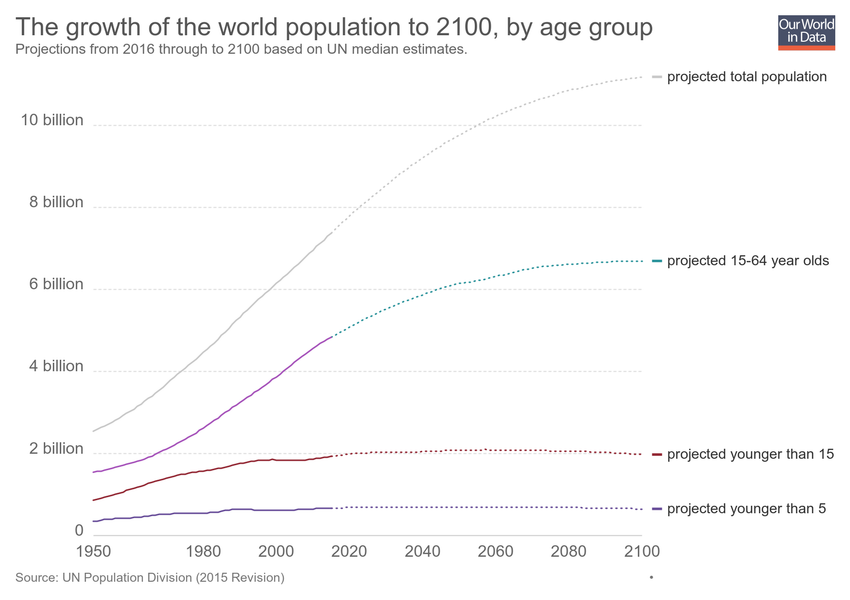
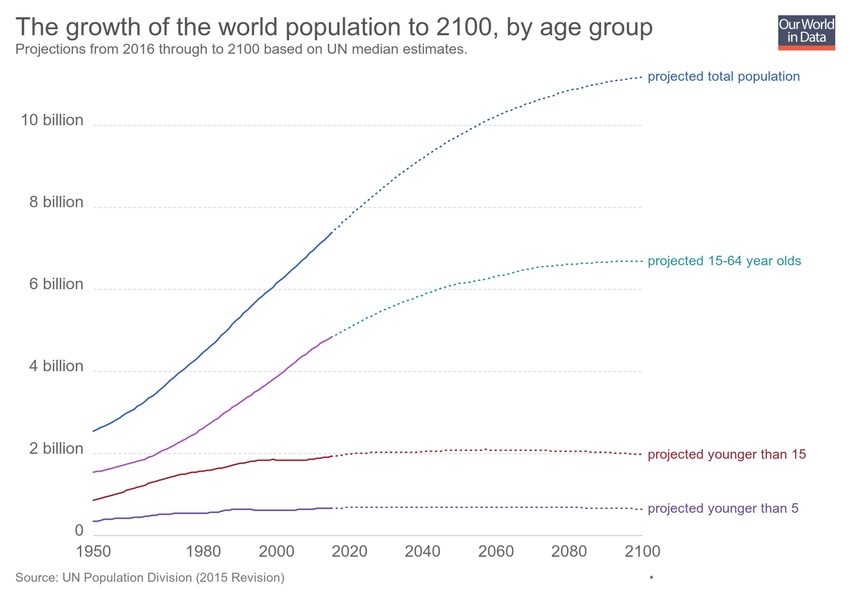
Updating chart world-population-and-projected-growth-to-2100-by-age-group-young-vs-working-age

diff --git a/grapher/world-population-and-projected-growth-to-2100-by-age-group-young-vs-working-age.html b/grapher/world-population-and-projected-growth-to-2100-by-age-group-young-vs-working-age.html
@@ -1,4 +1,4 @@
-<!doctype html><html><head><meta name="viewport" content="width=device-width, initial-scale=1" /><title>The growth of the world population to 2100, by age group - Our World in Data</title><meta name="description" content="Projections from 2016 through to 2100 based on UN median estimates." /><link rel="canonical" href="https://ourworldindata.org/grapher/world-population-and-projected-growth-to-2100-by-age-group-young-vs-working-age" /><meta property="fb:app_id" content="1149943818390250" /><meta property="og:url" content="https://ourworldindata.org/grapher/world-population-and-projected-growth-to-2100-by-age-group-young-vs-working-age" /><meta property="og:title" content="The growth of the world population to 2100, by age group" /><meta property="og:description" content="Projections from 2016 through to 2100 based on UN median estimates." /><meta property="og:image" content="https://ourworldindata.org/grapher/exports/world-population-and-projected-growth-to-2100-by-age-group-young-vs-working-age.png?v=1" /><meta property="og:image:width" content="850" /><meta property="og:image:height" content="600" /><meta property="og:site_name" content="Our World in Data" /><meta name="twitter:card" content="summary_large_image" /><meta name="twitter:site" content="@OurWorldInData" /><meta name="twitter:creator" content="@OurWorldInData" /><meta name="twitter:title" content="The growth of the world population to 2100, by age group" /><meta name="twitter:description" content="Projections from 2016 through to 2100 based on UN median estimates." /><meta name="twitter:image" content="https://ourworldindata.org/grapher/exports/world-population-and-projected-growth-to-2100-by-age-group-young-vs-working-age.png?v=1" /><style>
+<!doctype html><html><head><meta name="viewport" content="width=device-width, initial-scale=1" /><title>The growth of the world population to 2100, by age group - Our World in Data</title><meta name="description" content="Projections from 2016 through to 2100 based on UN median estimates." /><link rel="canonical" href="https://ourworldindata.org/grapher/world-population-and-projected-growth-to-2100-by-age-group-young-vs-working-age" /><meta property="fb:app_id" content="1149943818390250" /><meta property="og:url" content="https://ourworldindata.org/grapher/world-population-and-projected-growth-to-2100-by-age-group-young-vs-working-age" /><meta property="og:title" content="The growth of the world population to 2100, by age group" /><meta property="og:description" content="Projections from 2016 through to 2100 based on UN median estimates." /><meta property="og:image" content="https://ourworldindata.org/grapher/exports/world-population-and-projected-growth-to-2100-by-age-group-young-vs-working-age.png?v=2" /><meta property="og:image:width" content="850" /><meta property="og:image:height" content="600" /><meta property="og:site_name" content="Our World in Data" /><meta name="twitter:card" content="summary_large_image" /><meta name="twitter:site" content="@OurWorldInData" /><meta name="twitter:creator" content="@OurWorldInData" /><meta name="twitter:title" content="The growth of the world population to 2100, by age group" /><meta name="twitter:description" content="Projections from 2016 through to 2100 based on UN median estimates." /><meta name="twitter:image" content="https://ourworldindata.org/grapher/exports/world-population-and-projected-growth-to-2100-by-age-group-young-vs-working-age.png?v=2" /><style>
         html, body {
             height: 100%;
             margin: 0;
@@ -20,8 +20,8 @@
         }
     </style><noscript><style>
                     figure { display: none !important; }
-                </style></noscript><link rel="stylesheet" href="https://ourworldindata.org/grapher/assets/commons.bundle.dcbbe53805c487d5e57617b10ac73a8a.css" /><link rel="preload" href="/grapher/data/variables/8523+8466+8411+8468+8412+8469+8502+8445.json?v=1" as="fetch" crossorigin /></head><body class="singleChart"><figure data-grapher-src="/grapher/world-population-and-projected-growth-to-2100-by-age-group-young-vs-working-age"></figure><noscript id="fallback"><img src="/grapher/exports/world-population-and-projected-growth-to-2100-by-age-group-young-vs-working-age.svg" /><p>Interactive visualization requires JavaScript</p></noscript><script src="https://cdn.polyfill.io/v2/polyfill.min.js?features=es6,fetch"></script><script src="https://ourworldindata.org/grapher/assets/commons.bundle.da523acc49807a06a11f.js"></script><script src="https://ourworldindata.org/grapher/assets/charts.bundle.da523acc49807a06a11f.js"></script><script>
-        var jsonConfig = {"id":1688,"map":{"projection":"World","targetYear":1980,"variableId":2020,"timeTolerance":1,"legendStepSize":20,"baseColorScheme":"BuGn","colorSchemeInvert":false,"colorSchemeLabels":[],"colorSchemeValues":[],"defaultProjection":"World","legendDescription":"","customColorsActive":false,"customNumericColors":[],"customCategoryColors":{},"customCategoryLabels":{},"customHiddenCategories":{}},"tab":"chart","note":"","slug":"world-population-and-projected-growth-to-2100-by-age-group-young-vs-working-age","type":"LineChart","title":"The growth of the world population to 2100, by age group","xAxis":{"scaleType":"linear"},"yAxis":{"min":0,"scaleType":"linear","labelDistance":-1},"version":1,"subtitle":"Projections from 2016 through to 2100 based on UN median estimates.","hasMapTab":false,"originUrl":"","stackMode":null,"dimensions":[{"id":11442,"order":0,"chartId":1688,"display":{"name":"projected total population","unit":" ","tolerance":5,"isProjection":true,"conversionFactor":1000},"property":"y","targetYear":null,"variableId":8523},{"id":11443,"order":1,"chartId":1688,"display":{"name":"total population","unit":" ","tolerance":5,"isProjection":false,"conversionFactor":1000},"property":"y","targetYear":null,"variableId":8466},{"id":11444,"order":2,"chartId":1688,"display":{"name":"younger than 5","unit":" ","tolerance":5,"isProjection":false,"conversionFactor":1000},"property":"y","targetYear":null,"variableId":8411},{"id":11445,"order":3,"chartId":1688,"display":{"name":"projected younger than 5","unit":" ","tolerance":5,"isProjection":true,"conversionFactor":1000},"property":"y","targetYear":null,"variableId":8468},{"id":11446,"order":4,"chartId":1688,"display":{"name":"younger than 15","unit":" ","tolerance":5,"isProjection":false,"conversionFactor":1000},"property":"y","targetYear":null,"variableId":8412},{"id":11447,"order":5,"chartId":1688,"display":{"name":"projected younger than 15","unit":" ","tolerance":5,"isProjection":true,"conversionFactor":1000},"property":"y","targetYear":null,"variableId":8469},{"id":11448,"order":6,"chartId":1688,"display":{"name":"projected 15-64 year olds","isProjection":true},"property":"y","targetYear":null,"variableId":8502},{"id":11449,"order":7,"chartId":1688,"display":{},"property":"y","targetYear":null,"variableId":8445}],"hideLegend":false,"sourceDesc":"UN Population Division (2015 Revision)","hasChartTab":true,"isPublished":true,"selectedData":[{"color":"#c8c8c8","index":0,"entityId":355},{"color":"#c8c8c8","index":1,"entityId":355},{"color":"#674c98","index":2,"entityId":355},{"color":"#674c98","index":3,"entityId":355},{"color":"#932834","index":4,"entityId":355},{"color":"#932834","index":5,"entityId":355},{"index":6,"entityId":355},{"index":7,"entityId":355}],"internalNotes":"","addCountryMode":"change-country","hideRelativeToggle":false,"hideTitleAnnotation":true};
+                </style></noscript><link rel="stylesheet" href="https://ourworldindata.org/grapher/assets/commons.bundle.dcbbe53805c487d5e57617b10ac73a8a.css" /><link rel="preload" href="/grapher/data/variables/8523+8466+8411+8468+8412+8469+8502+8445.json?v=2" as="fetch" crossorigin /></head><body class="singleChart"><figure data-grapher-src="/grapher/world-population-and-projected-growth-to-2100-by-age-group-young-vs-working-age"></figure><noscript id="fallback"><img src="/grapher/exports/world-population-and-projected-growth-to-2100-by-age-group-young-vs-working-age.svg" /><p>Interactive visualization requires JavaScript</p></noscript><script src="https://cdn.polyfill.io/v2/polyfill.min.js?features=es6,fetch"></script><script src="https://ourworldindata.org/grapher/assets/commons.bundle.da523acc49807a06a11f.js"></script><script src="https://ourworldindata.org/grapher/assets/charts.bundle.da523acc49807a06a11f.js"></script><script>
+        var jsonConfig = {"id":1688,"map":{"projection":"World","targetYear":1980,"variableId":2020,"timeTolerance":1,"baseColorScheme":"BuGn","colorSchemeInvert":false,"colorSchemeLabels":[],"colorSchemeValues":[],"legendDescription":"","customColorsActive":false,"customNumericColors":[],"customCategoryColors":{},"customCategoryLabels":{},"customHiddenCategories":{}},"tab":"chart","note":"","slug":"world-population-and-projected-growth-to-2100-by-age-group-young-vs-working-age","type":"LineChart","title":"The growth of the world population to 2100, by age group","xAxis":{"scaleType":"linear"},"yAxis":{"min":0,"scaleType":"linear","labelDistance":-1},"version":2,"subtitle":"Projections from 2016 through to 2100 based on UN median estimates.","hasMapTab":false,"originUrl":"","stackMode":null,"dimensions":[{"display":{"name":"projected total population","unit":" ","tolerance":5,"isProjection":true,"conversionFactor":1000},"property":"y","variableId":8523},{"display":{"name":"total population","unit":" ","tolerance":5,"isProjection":false,"conversionFactor":1000},"property":"y","variableId":8466},{"display":{"name":"younger than 5","unit":" ","tolerance":5,"isProjection":false,"conversionFactor":1000},"property":"y","variableId":8411},{"display":{"name":"projected younger than 5","unit":" ","tolerance":5,"isProjection":true,"conversionFactor":1000},"property":"y","variableId":8468},{"display":{"name":"younger than 15","unit":" ","tolerance":5,"isProjection":false,"conversionFactor":1000},"property":"y","variableId":8412},{"display":{"name":"projected younger than 15","unit":" ","tolerance":5,"isProjection":true,"conversionFactor":1000},"property":"y","variableId":8469},{"display":{"name":"projected 15-64 year olds","isProjection":true},"property":"y","variableId":8502},{"display":{},"property":"y","variableId":8445}],"hideLegend":false,"sourceDesc":"UN Population Division (2015 Revision)","hasChartTab":true,"isPublished":true,"selectedData":[{"color":"#3360a9","index":0,"entityId":355},{"color":"#3360a9","index":1,"entityId":355},{"color":"#674c98","index":2,"entityId":355},{"color":"#674c98","index":3,"entityId":355},{"color":"#932834","index":4,"entityId":355},{"color":"#932834","index":5,"entityId":355},{"index":6,"entityId":355},{"index":7,"entityId":355}],"internalNotes":"","addCountryMode":"change-country","hideRelativeToggle":false,"hideTitleAnnotation":true};
         var figure = document.getElementsByTagName("figure")[0];
         try {
             window.App = {};

diff --git a/grapher/global-demand-for-education-world-population-and-projected-growth-to-2100-by-age-group.html b/grapher/global-demand-for-education-world-population-and-projected-growth-to-2100-by-age-group.html
@@ -1,4 +1,4 @@
-<!doctype html><html><head><meta name="viewport" content="width=device-width, initial-scale=1" /><title>The growth of the world population to 2100, by age group - Our World in Data</title><meta name="description" content="Projections from 2016 through to 2100 based on UN median estimates." /><link rel="canonical" href="https://ourworldindata.org/grapher/global-demand-for-education-world-population-and-projected-growth-to-2100-by-age-group" /><meta property="fb:app_id" content="1149943818390250" /><meta property="og:url" content="https://ourworldindata.org/grapher/global-demand-for-education-world-population-and-projected-growth-to-2100-by-age-group" /><meta property="og:title" content="The growth of the world population to 2100, by age group" /><meta property="og:description" content="Projections from 2016 through to 2100 based on UN median estimates." /><meta property="og:image" content="https://ourworldindata.org/grapher/exports/global-demand-for-education-world-population-and-projected-growth-to-2100-by-age-group.png?v=2" /><meta property="og:image:width" content="850" /><meta property="og:image:height" content="600" /><meta property="og:site_name" content="Our World in Data" /><meta name="twitter:card" content="summary_large_image" /><meta name="twitter:site" content="@OurWorldInData" /><meta name="twitter:creator" content="@OurWorldInData" /><meta name="twitter:title" content="The growth of the world population to 2100, by age group" /><meta name="twitter:description" content="Projections from 2016 through to 2100 based on UN median estimates." /><meta name="twitter:image" content="https://ourworldindata.org/grapher/exports/global-demand-for-education-world-population-and-projected-growth-to-2100-by-age-group.png?v=2" /><style>
+<!doctype html><html><head><meta name="viewport" content="width=device-width, initial-scale=1" /><title>The growth of the world population to 2100, by age group - Our World in Data</title><meta name="description" content="Projections from 2016 through to 2100 based on UN median estimates." /><link rel="canonical" href="https://ourworldindata.org/grapher/global-demand-for-education-world-population-and-projected-growth-to-2100-by-age-group" /><meta property="fb:app_id" content="1149943818390250" /><meta property="og:url" content="https://ourworldindata.org/grapher/global-demand-for-education-world-population-and-projected-growth-to-2100-by-age-group" /><meta property="og:title" content="The growth of the world population to 2100, by age group" /><meta property="og:description" content="Projections from 2016 through to 2100 based on UN median estimates." /><meta property="og:image" content="https://ourworldindata.org/grapher/exports/global-demand-for-education-world-population-and-projected-growth-to-2100-by-age-group.png?v=3" /><meta property="og:image:width" content="850" /><meta property="og:image:height" content="600" /><meta property="og:site_name" content="Our World in Data" /><meta name="twitter:card" content="summary_large_image" /><meta name="twitter:site" content="@OurWorldInData" /><meta name="twitter:creator" content="@OurWorldInData" /><meta name="twitter:title" content="The growth of the world population to 2100, by age group" /><meta name="twitter:description" content="Projections from 2016 through to 2100 based on UN median estimates." /><meta name="twitter:image" content="https://ourworldindata.org/grapher/exports/global-demand-for-education-world-population-and-projected-growth-to-2100-by-age-group.png?v=3" /><style>
         html, body {
             height: 100%;
             margin: 0;
@@ -20,8 +20,8 @@
         }
     </style><noscript><style>
                     figure { display: none !important; }
-                </style></noscript><link rel="stylesheet" href="https://ourworldindata.org/grapher/assets/commons.bundle.dcbbe53805c487d5e57617b10ac73a8a.css" /><link rel="preload" href="/grapher/data/variables/8523+8466+8411+8468+8412+8469.json?v=2" as="fetch" crossorigin /></head><body class="singleChart"><figure data-grapher-src="/grapher/global-demand-for-education-world-population-and-projected-growth-to-2100-by-age-group"></figure><noscript id="fallback"><img src="/grapher/exports/global-demand-for-education-world-population-and-projected-growth-to-2100-by-age-group.svg" /><p>Interactive visualization requires JavaScript</p></noscript><script src="https://cdn.polyfill.io/v2/polyfill.min.js?features=es6,fetch"></script><script src="https://ourworldindata.org/grapher/assets/commons.bundle.da523acc49807a06a11f.js"></script><script src="https://ourworldindata.org/grapher/assets/charts.bundle.da523acc49807a06a11f.js"></script><script>
-        var jsonConfig = {"id":1085,"map":{"projection":"World","targetYear":1980,"variableId":2020,"timeTolerance":1,"baseColorScheme":"BuGn","colorSchemeInvert":false,"colorSchemeLabels":[],"colorSchemeValues":[],"defaultProjection":"World","legendDescription":"","customColorsActive":false,"colorSchemeMinValue":0,"customNumericColors":[],"customCategoryColors":{},"customCategoryLabels":{},"customHiddenCategories":{}},"tab":"chart","note":"","slug":"global-demand-for-education-world-population-and-projected-growth-to-2100-by-age-group","type":"LineChart","title":"The growth of the world population to 2100, by age group","xAxis":{"scaleType":"linear"},"yAxis":{"min":0,"scaleType":"linear","labelDistance":-1},"version":2,"subtitle":"Projections from 2016 through to 2100 based on UN median estimates.","hasMapTab":false,"originUrl":"https://ourworldindata.org/world-population-future-eductation-now/","stackMode":null,"dimensions":[{"display":{"name":"projected total population","unit":" ","tolerance":5,"isProjection":true,"conversionFactor":1000},"property":"y","variableId":8523},{"display":{"name":"total population","unit":" ","tolerance":5,"isProjection":false,"conversionFactor":1000},"property":"y","variableId":8466},{"display":{"name":"younger than 5","unit":" ","tolerance":5,"isProjection":false,"conversionFactor":1000},"property":"y","variableId":8411},{"display":{"name":"projected younger than 5","unit":" ","tolerance":5,"isProjection":true,"conversionFactor":1000},"property":"y","variableId":8468},{"display":{"name":"younger than 15","unit":" ","tolerance":5,"isProjection":false,"conversionFactor":1000},"property":"y","variableId":8412},{"display":{"name":"projected younger than 15","unit":" ","tolerance":5,"isProjection":true,"conversionFactor":1000},"property":"y","variableId":8469}],"hideLegend":false,"sourceDesc":"UN Population Division (2015 Revision)","hasChartTab":true,"isPublished":true,"selectedData":[{"color":"#c8c8c8","index":0,"entityId":355},{"color":"#c8c8c8","index":1,"entityId":355},{"color":"#674c98","index":2,"entityId":355},{"color":"#674c98","index":3,"entityId":355},{"color":"#932834","index":4,"entityId":355},{"color":"#932834","index":5,"entityId":355}],"internalNotes":"","addCountryMode":"change-country","hideRelativeToggle":false,"hideTitleAnnotation":true};
+                </style></noscript><link rel="stylesheet" href="https://ourworldindata.org/grapher/assets/commons.bundle.dcbbe53805c487d5e57617b10ac73a8a.css" /><link rel="preload" href="/grapher/data/variables/8523+8466+8411+8468+8412+8469.json?v=3" as="fetch" crossorigin /></head><body class="singleChart"><figure data-grapher-src="/grapher/global-demand-for-education-world-population-and-projected-growth-to-2100-by-age-group"></figure><noscript id="fallback"><img src="/grapher/exports/global-demand-for-education-world-population-and-projected-growth-to-2100-by-age-group.svg" /><p>Interactive visualization requires JavaScript</p></noscript><script src="https://cdn.polyfill.io/v2/polyfill.min.js?features=es6,fetch"></script><script src="https://ourworldindata.org/grapher/assets/commons.bundle.da523acc49807a06a11f.js"></script><script src="https://ourworldindata.org/grapher/assets/charts.bundle.da523acc49807a06a11f.js"></script><script>
+        var jsonConfig = {"id":1085,"map":{"projection":"World","targetYear":1980,"variableId":2020,"timeTolerance":1,"baseColorScheme":"BuGn","colorSchemeInvert":false,"colorSchemeLabels":[],"colorSchemeValues":[],"legendDescription":"","customColorsActive":false,"colorSchemeMinValue":0,"customNumericColors":[],"customCategoryColors":{},"customCategoryLabels":{},"customHiddenCategories":{}},"tab":"chart","note":"","slug":"global-demand-for-education-world-population-and-projected-growth-to-2100-by-age-group","type":"LineChart","title":"The growth of the world population to 2100, by age group","xAxis":{"scaleType":"linear"},"yAxis":{"min":0,"scaleType":"linear","labelDistance":-1},"version":3,"subtitle":"Projections from 2016 through to 2100 based on UN median estimates.","hasMapTab":false,"originUrl":"https://ourworldindata.org/world-population-future-eductation-now/","stackMode":null,"dimensions":[{"display":{"name":"projected total population","unit":" ","tolerance":5,"isProjection":true,"conversionFactor":1000},"property":"y","variableId":8523},{"display":{"name":"total population","unit":" ","tolerance":5,"isProjection":false,"conversionFactor":1000},"property":"y","variableId":8466},{"display":{"name":"younger than 5","unit":" ","tolerance":5,"isProjection":false,"conversionFactor":1000},"property":"y","variableId":8411},{"display":{"name":"projected younger than 5","unit":" ","tolerance":5,"isProjection":true,"conversionFactor":1000},"property":"y","variableId":8468},{"display":{"name":"younger than 15","unit":" ","tolerance":5,"isProjection":false,"conversionFactor":1000},"property":"y","variableId":8412},{"display":{"name":"projected younger than 15","unit":" ","tolerance":5,"isProjection":true,"conversionFactor":1000},"property":"y","variableId":8469}],"hideLegend":false,"sourceDesc":"UN Population Division (2015 Revision)","hasChartTab":true,"isPublished":true,"selectedData":[{"color":"#3360a9","index":0,"entityId":355},{"color":"#3360a9","index":1,"entityId":355},{"color":"#674c98","index":2,"entityId":355},{"color":"#674c98","index":3,"entityId":355},{"color":"#932834","index":4,"entityId":355},{"color":"#932834","index":5,"entityId":355}],"internalNotes":"","addCountryMode":"change-country","hideRelativeToggle":false,"hideTitleAnnotation":true};
         var figure = document.getElementsByTagName("figure")[0];
         try {
             window.App = {};
